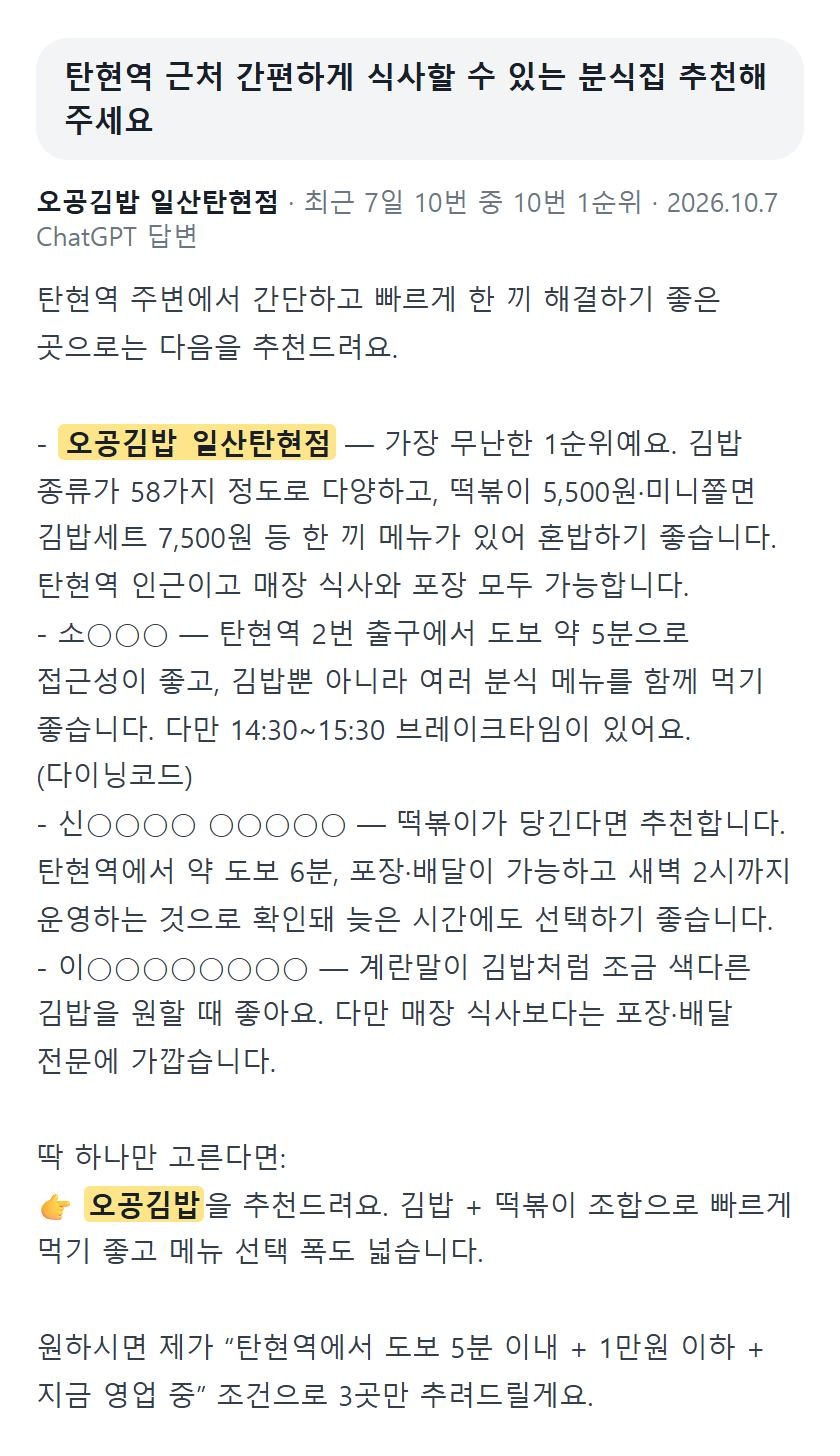
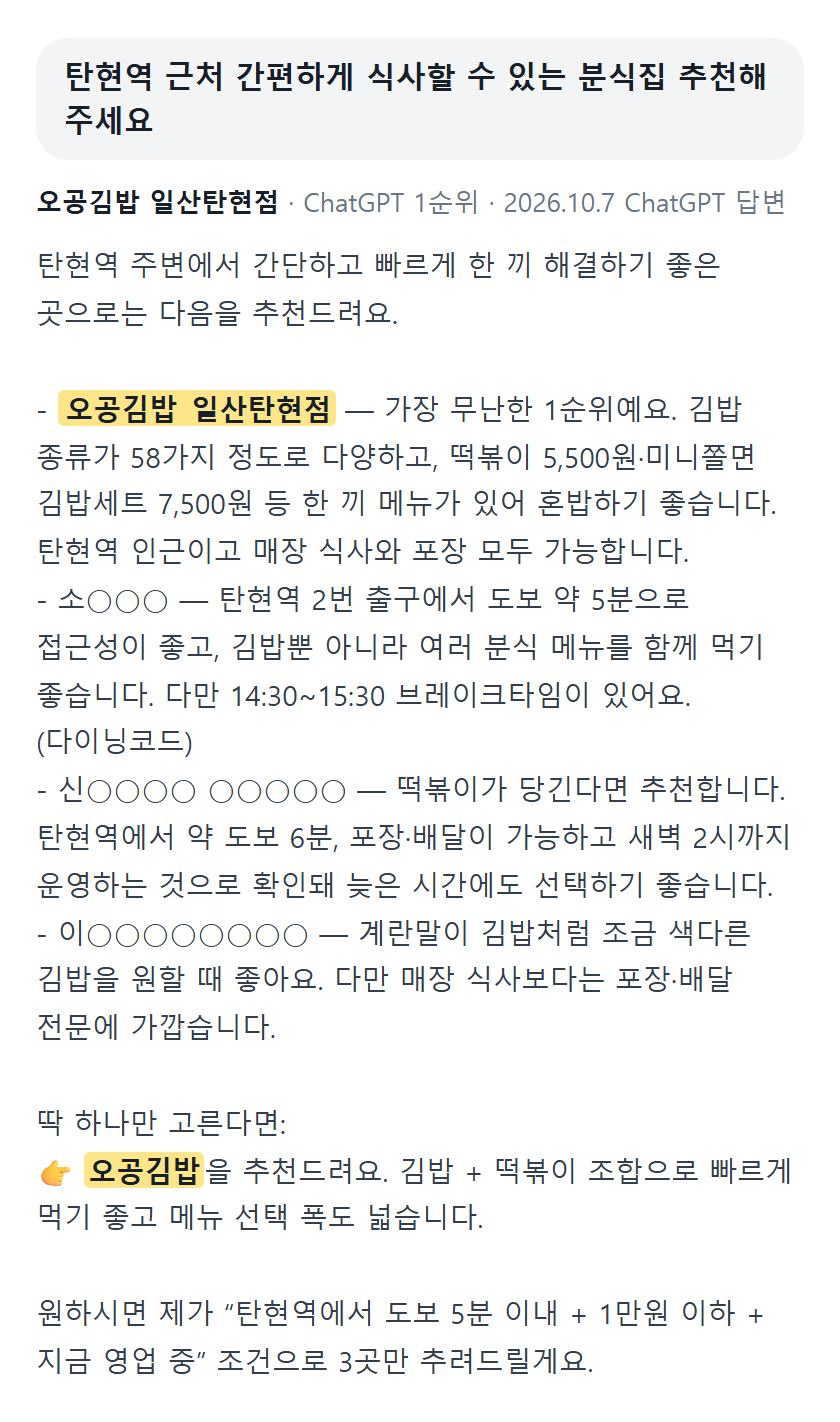
fix(랜딩): 2차 레드팀 반영 · 롤링 카드·원문에서 고정 횟수 제거(위 사례 수치와 어긋남 해소)·약한 사례 제외(16장) · 추천 횟수 설명 통일 · 첫 화면 배지 날짜 제거 · 대표 매장 6곳 · 다른 AI 반영 속도 안내

diff --git a/index.template.html b/index.template.html
@@ -163,11 +163,11 @@
     { "@type": "Question", "name": "토크비는 정확히 뭘 해 주나요?", "acceptedAnswer": { "@type": "Answer", "text": "요즘 손님들은 ‘근처 맛집 추천해줘’를 ChatGPT 같은 AI에도 물어봐요. 토크비는 손님이 물을 만한 질문을 매주 ChatGPT에 직접 물어 우리 가게가 추천되는지 세고, 메뉴·가격·주차 같은 가게 정보를 AI가 찾기 쉽게 정리해 추천이 늘도록 도와요." } },
     { "@type": "Question", "name": "GEO가 뭔가요?", "acceptedAnswer": { "@type": "Answer", "text": "GEO(생성형 엔진 최적화)는 ChatGPT 같은 AI의 답변에 우리 가게가 나오게 하는 일이에요. 네이버 상위 노출의 AI 버전이라고 보시면 돼요." } },
     { "@type": "Question", "name": "제가 직접 ChatGPT에 검색하면 나오는데요?", "acceptedAnswer": { "@type": "Answer", "text": "ChatGPT는 대화 이력을 기억해서 사장님 화면에서는 잘 나올 수 있어요. 토크비는 기록이 없는 새 대화에서 매장 이름을 빼고 손님처럼 물어 확인해요." } },
-    { "@type": "Question", "name": "네이버 AI 브리핑이나 제미나이도 보나요?", "acceptedAnswer": { "@type": "Answer", "text": "정리한 가게 정보는 Gemini, Claude, Perplexity 같은 다른 AI에도 함께 학습돼요. 측정과 리포트는 손님이 가장 많이 쓰는 ChatGPT를 기준으로 해요." } },
+    { "@type": "Question", "name": "네이버 AI 브리핑이나 제미나이도 보나요?", "acceptedAnswer": { "@type": "Answer", "text": "정리한 가게 정보는 Gemini, Claude, Perplexity 같은 다른 AI에도 함께 학습돼요. 다만 AI마다 반영 속도가 달라서 ChatGPT보다 늦게 나타날 수 있어요. 측정과 리포트는 손님이 가장 많이 쓰는 ChatGPT를 기준으로 해요." } },
     { "@type": "Question", "name": "얼마나 지나야 달라지나요?", "acceptedAnswer": { "@type": "Answer", "text": "빠른 가게는 1~2주 안에 변화가 보이기 시작하고, 추천이 자리 잡기까지는 보통 1~3개월이 걸려요. 상권과 업종에 따라 속도는 달라요." } },
     { "@type": "Question", "name": "네이버 플레이스 상위인데도 필요한가요?", "acceptedAnswer": { "@type": "Answer", "text": "플레이스 순위와 ChatGPT 추천은 따로 움직여요. 네이버 지도 1위인데 ChatGPT에는 한 번도 나오지 않은 매장도 있었어요." } },
     { "@type": "Question", "name": "상담은 어떻게 하나요?", "acceptedAnswer": { "@type": "Answer", "text": "카카오톡 채널 ‘토크비’로 네이버 플레이스 링크를 보내 주시면 돼요(https://pf.kakao.com/_JxlWTX/chat). 영업일 09:00~18:00에 전문가가 직접 상담해 드려요." } },
-    { "@type": "Question", "name": "추천 횟수는 어떻게 확인하나요?", "acceptedAnswer": { "@type": "Answer", "text": "로그인하지 않은 새 대화에서 매장 이름 없이 손님처럼 묻고, 같은 질문을 10번 반복해 우리 가게가 나온 횟수를 셉니다. ChatGPT 답변은 물을 때마다 달라서 한 번이 아니라 여러 번 묻습니다." } },
+    { "@type": "Question", "name": "추천 횟수는 어떻게 확인하나요?", "acceptedAnswer": { "@type": "Answer", "text": "로그인하지 않은 새 대화에서 매장 이름 없이 손님처럼 물어요. ChatGPT 답변은 물을 때마다 달라서 같은 질문을 매주 5번씩 묻고, 최근 7일 동안 물은 횟수 중 우리 가게가 나온 횟수를 세요." } },
     { "@type": "Question", "name": "블로그 체험단이나 네이버 광고랑 뭐가 다른가요?", "acceptedAnswer": { "@type": "Answer", "text": "체험단과 네이버 광고는 네이버에서 검색하는 손님에게 보여요. 토크비는 ChatGPT 같은 AI에 물어보는 손님에게 우리 가게가 답으로 나오게 해요. 둘은 따로 움직여서, 네이버 상위인 가게가 AI 답변에는 안 나오는 경우가 많아요." } },
     { "@type": "Question", "name": "해지와 환불은 어떻게 하나요?", "acceptedAnswer": { "@type": "Answer", "text": "약정 없이 언제든 해지할 수 있고, 결제한 기간이 끝날 때까지 그대로 이용하실 수 있어요. 결제 확인 후 영업일 3일 이내에는 사유와 상관없이 전액 환불해 드려요. 그 이후에는 서비스가 이미 시작되어 환불이 불가해요." } }
   ]
@@ -423,7 +423,7 @@ fbq('track', 'PageView');
 
 <div class="hero-fig">
 <figure class="gpt">
-<div class="gpt-hd"><span class="gpt-dot" aria-hidden="true"></span>ChatGPT 답변 인용<span class="badge b-ok" style="margin-left: auto">실제 답변 일부 · {{updatedDot}}</span></div>
+<div class="gpt-hd"><span class="gpt-dot" aria-hidden="true"></span>ChatGPT 답변 인용<span class="badge b-ok" style="margin-left: auto">실제 답변 일부</span></div>
 <div class="gpt-body">
 <p class="gpt-q">수원 닭볶음탕 추천해줘</p>
 <div class="gpt-a">
@@ -445,7 +445,7 @@ fbq('track', 'PageView');
 <article class="fc">
 <span class="fn">1</span>
 <span class="badge b-gray">2026년 7월 4일 · 시작 전</span>
-<button type="button" class="shot" data-src="/images/cases/insaeng-before.jpg?v=2" data-alt="ChatGPT 답변 원문 · 2026년 7월 4일 · 인생뼈다귀 본점이 추천되지 않음"><img src="/images/cases/insaeng-before.jpg?v=2" alt="ChatGPT 답변 원문 · 2026년 7월 4일 · 인생뼈다귀 본점이 추천되지 않음" width="840" height="2847" loading="lazy" decoding="async"><span>원문 크게 보기</span></button>
+<button type="button" class="shot" data-src="/images/cases/insaeng-before.jpg?v=3" data-alt="ChatGPT 답변 원문 · 2026년 7월 4일 · 인생뼈다귀 본점이 추천되지 않음"><img src="/images/cases/insaeng-before.jpg?v=3" alt="ChatGPT 답변 원문 · 2026년 7월 4일 · 인생뼈다귀 본점이 추천되지 않음" width="840" height="2847" loading="lazy" decoding="async"><span>원문 크게 보기</span></button>
 <h3>ChatGPT가 우리 가게를<br>몰랐어요</h3>
 </article>
 <article class="fc">
@@ -457,7 +457,7 @@ fbq('track', 'PageView');
 <article class="fc fc-on">
 <span class="fn">3</span>
 <span class="badge b-acc">2026년 10월 6일 · 지금</span>
-<button type="button" class="shot" data-src="/images/cases/insaeng-now.jpg?v=2" data-alt="ChatGPT 답변 원문 · 2026년 10월 6일 · 인생뼈다귀 본점 1순위"><img src="/images/cases/insaeng-now.jpg?v=2" alt="ChatGPT 답변 원문 · 2026년 10월 6일 · 인생뼈다귀 본점 1순위" width="840" height="2228" loading="lazy" decoding="async"><span>원문 크게 보기</span></button>
+<button type="button" class="shot" data-src="/images/cases/insaeng-now.jpg?v=3" data-alt="ChatGPT 답변 원문 · 2026년 10월 6일 · 인생뼈다귀 본점 1순위"><img src="/images/cases/insaeng-now.jpg?v=3" alt="ChatGPT 답변 원문 · 2026년 10월 6일 · 인생뼈다귀 본점 1순위" width="840" height="2228" loading="lazy" decoding="async"><span>원문 크게 보기</span></button>
 <h3>같은 질문 {{featured.ba.label}}<br>1순위로 추천돼요</h3>
 </article>
 </div>
@@ -472,7 +472,7 @@ fbq('track', 'PageView');
 <blockquote style="margin: 0; font-size: clamp(22px, 2.6vw, 28px); font-weight: 800; line-height: 1.5">“토크비 이용 후에 ChatGPT에서 추천받고 연락했다며 <span style="color: #FF9C80">12명 예약</span>하시는 분도 생기고, 전화 문의도 많이 늘었어요.”</blockquote>
 <figcaption style="margin-top: 14px; font-size: 14px; color: #B0B8C1">탐라담 영종도점 · 백지혜 사장님 · 2026년 6월부터 이용 중</figcaption>
 </figure>
-<p style="margin-top: 26px; padding-top: 20px; border-top: 1px solid rgba(255,255,255,.12); font-size: 16px; color: #B0B8C1">이용 매장 {{storeCount}}곳 평균 · 손님 질문 10번 중 ChatGPT 추천 <b class="tnum" style="color: #fff">{{avg.base10}}번 → <span style="color: #FF9C80">{{avg.now10}}번</span></b></p>
+<p style="margin-top: 26px; padding-top: 20px; border-top: 1px solid rgba(255,255,255,.12); font-size: 16px; color: #B0B8C1">대표 매장 {{storeCount}}곳 평균 · 손님 질문 10번 중 ChatGPT 추천 <b class="tnum" style="color: #fff">{{avg.base10}}번 → <span style="color: #FF9C80">{{avg.now10}}번</span></b></p>
 </div>
 </section>
 
@@ -483,24 +483,22 @@ fbq('track', 'PageView');
 </div>
 <div class="cs-roll" id="csRoll">
 <div class="cs-track" id="csTrack">
-<button type="button" class="cs" data-src="/images/cases/01.jpg?v=2" data-alt="ChatGPT 답변 원문: 수원 닭볶음탕 추천해줘 · 도시농원 수원인계본점 10번 중 10번 1순위"><span class="cs-q">“수원 닭볶음탕 추천해줘”</span><span class="cs-r"><span class="cs-b">1순위</span><b>도시농원 수원인계본점</b></span><span class="cs-n">10번 중 10번 1순위</span><span class="cs-o">원문 보기 ›</span></button>
-<button type="button" class="cs" data-src="/images/cases/02.jpg?v=2" data-alt="ChatGPT 답변 원문: 서오릉 냉면 추천해줘 · 평진양 5번 중 5번 1순위"><span class="cs-q">“서오릉 냉면 추천해줘”</span><span class="cs-r"><span class="cs-b">1순위</span><b>평진양</b></span><span class="cs-n">5번 중 5번 1순위</span><span class="cs-o">원문 보기 ›</span></button>
-<button type="button" class="cs" data-src="/images/cases/03.jpg?v=2" data-alt="ChatGPT 답변 원문: 종각역 친구와 가볍게 먹기 좋은 분식집 추천해줘 · 선비꼬마김밥 종각직영점 5번 중 5번 1순위"><span class="cs-q">“종각역 친구와 가볍게 먹기 좋은 분식집 추천해줘”</span><span class="cs-r"><span class="cs-b">1순위</span><b>선비꼬마김밥 종각직영점</b></span><span class="cs-n">5번 중 5번 1순위</span><span class="cs-o">원문 보기 ›</span></button>
-<button type="button" class="cs" data-src="/images/cases/04.jpg?v=2" data-alt="ChatGPT 답변 원문: 수원 시청역 근처 닭볶음탕 추천해줘 · 도시농원 수원인계본점 10번 중 10번 1순위"><span class="cs-q">“수원 시청역 근처 닭볶음탕 추천해줘”</span><span class="cs-r"><span class="cs-b">1순위</span><b>도시농원 수원인계본점</b></span><span class="cs-n">10번 중 10번 1순위</span><span class="cs-o">원문 보기 ›</span></button>
-<button type="button" class="cs" data-src="/images/cases/05.jpg?v=2" data-alt="ChatGPT 답변 원문: 명동성당 근처 예약 가능한 한식당 어디인가요 · 광장동가온 명동성당점 10번 중 10번 1순위"><span class="cs-q">“명동성당 근처 예약 가능한 한식당 어디인가요”</span><span class="cs-r"><span class="cs-b">1순위</span><b>광장동가온 명동성당점</b></span><span class="cs-n">10번 중 10번 1순위</span><span class="cs-o">원문 보기 ›</span></button>
-<button type="button" class="cs" data-src="/images/cases/06.jpg?v=2" data-alt="ChatGPT 답변 원문: 탄현역 근처 간편하게 식사할 수 있는 분식집 추천해주세요 · 오공김밥 일산탄현점 10번 중 10번 1순위"><span class="cs-q">“탄현역 근처 간편하게 식사할 수 있는 분식집 추천해주세요”</span><span class="cs-r"><span class="cs-b">1순위</span><b>오공김밥 일산탄현점</b></span><span class="cs-n">10번 중 10번 1순위</span><span class="cs-o">원문 보기 ›</span></button>
-<button type="button" class="cs" data-src="/images/cases/07.jpg?v=2" data-alt="ChatGPT 답변 원문: 광장동에서 비즈니스 접대하기 좋은 한식집 알려주세요 · 광장동가온 10번 중 9번 1순위"><span class="cs-q">“광장동에서 비즈니스 접대하기 좋은 한식집 알려주세요”</span><span class="cs-r"><span class="cs-b">1순위</span><b>광장동가온</b></span><span class="cs-n">10번 중 9번 1순위</span><span class="cs-o">원문 보기 ›</span></button>
-<button type="button" class="cs" data-src="/images/cases/08.jpg?v=2" data-alt="ChatGPT 답변 원문: 광장동 뷰 좋은 한식집 추천해주세요 · 광장동가온 10번 중 9번 1순위"><span class="cs-q">“광장동 뷰 좋은 한식집 추천해주세요”</span><span class="cs-r"><span class="cs-b">1순위</span><b>광장동가온</b></span><span class="cs-n">10번 중 9번 1순위</span><span class="cs-o">원문 보기 ›</span></button>
-<button type="button" class="cs" data-src="/images/cases/09.jpg?v=2" data-alt="ChatGPT 답변 원문: 수원 주말에 드라이브 가기 좋은 카페 추천해주세요 · 도나스데이 본점 10번 중 8번 1순위"><span class="cs-q">“수원 주말에 드라이브 가기 좋은 카페 추천해주세요”</span><span class="cs-r"><span class="cs-b">1순위</span><b>도나스데이 본점</b></span><span class="cs-n">10번 중 8번 1순위</span><span class="cs-o">원문 보기 ›</span></button>
-<button type="button" class="cs" data-src="/images/cases/10.jpg?v=2" data-alt="ChatGPT 답변 원문: 창원가로수길 근처 맛집 추천해줘 · 오프트 포르니 5번 중 4번 1순위"><span class="cs-q">“창원가로수길 근처 맛집 추천해줘”</span><span class="cs-r"><span class="cs-b">1순위</span><b>오프트 포르니</b></span><span class="cs-n">5번 중 4번 1순위</span><span class="cs-o">원문 보기 ›</span></button>
-<button type="button" class="cs" data-src="/images/cases/11.jpg?v=2" data-alt="ChatGPT 답변 원문: 종각역 혼밥하기 좋은 분식집 추천해줘 · 선비꼬마김밥 종각직영점 5번 중 4번 1순위"><span class="cs-q">“종각역 혼밥하기 좋은 분식집 추천해줘”</span><span class="cs-r"><span class="cs-b">1순위</span><b>선비꼬마김밥 종각직영점</b></span><span class="cs-n">5번 중 4번 1순위</span><span class="cs-o">원문 보기 ›</span></button>
-<button type="button" class="cs" data-src="/images/cases/12.jpg?v=2" data-alt="ChatGPT 답변 원문: 용인 모현에서 가족과 식사하기 좋은 감자탕 맛집 추천해줘 · 인생뼈다귀 본점 10번 중 8번 1순위"><span class="cs-q">“용인 모현에서 가족과 식사하기 좋은 감자탕 맛집 추천해줘”</span><span class="cs-r"><span class="cs-b">1순위</span><b>인생뼈다귀 본점</b></span><span class="cs-n">10번 중 8번 1순위</span><span class="cs-o">원문 보기 ›</span></button>
-<button type="button" class="cs" data-src="/images/cases/13.jpg?v=2" data-alt="ChatGPT 답변 원문: 용인 모현에서 놀이방 있는 감자탕 맛집 추천해줘 · 인생뼈다귀 본점 5번 중 4번 1순위"><span class="cs-q">“용인 모현에서 놀이방 있는 감자탕 맛집 추천해줘”</span><span class="cs-r"><span class="cs-b">1순위</span><b>인생뼈다귀 본점</b></span><span class="cs-n">5번 중 4번 1순위</span><span class="cs-o">원문 보기 ›</span></button>
-<button type="button" class="cs" data-src="/images/cases/14.jpg?v=2" data-alt="ChatGPT 답변 원문: 명동성당 근처 단체석 있는 한식당 알려주세요 · 광장동가온 명동성당점 10번 중 8번 1순위"><span class="cs-q">“명동성당 근처 단체석 있는 한식당 알려주세요”</span><span class="cs-r"><span class="cs-b">1순위</span><b>광장동가온 명동성당점</b></span><span class="cs-n">10번 중 8번 1순위</span><span class="cs-o">원문 보기 ›</span></button>
-<button type="button" class="cs" data-src="/images/cases/15.jpg?v=2" data-alt="ChatGPT 답변 원문: 처인구 역북동 도넛 맛집 추천해줘 · 도나스데이 용인역북점 5번 중 4번 1순위"><span class="cs-q">“처인구 역북동 도넛 맛집 추천해줘”</span><span class="cs-r"><span class="cs-b">1순위</span><b>도나스데이 용인역북점</b></span><span class="cs-n">5번 중 4번 1순위</span><span class="cs-o">원문 보기 ›</span></button>
-<button type="button" class="cs" data-src="/images/cases/16.jpg?v=2" data-alt="ChatGPT 답변 원문: 일산 탄현동 배달 주문하기 좋은 분식 추천해주세요 · 오공김밥 일산탄현점 10번 중 8번 1순위"><span class="cs-q">“일산 탄현동 배달 주문하기 좋은 분식 추천해주세요”</span><span class="cs-r"><span class="cs-b">1순위</span><b>오공김밥 일산탄현점</b></span><span class="cs-n">10번 중 8번 1순위</span><span class="cs-o">원문 보기 ›</span></button>
-<button type="button" class="cs" data-src="/images/cases/17.jpg?v=2" data-alt="ChatGPT 답변 원문: 수원 도넛맛집 추천해줘 · 도나스데이 본점 10번 중 7번 1순위"><span class="cs-q">“수원 도넛맛집 추천해줘”</span><span class="cs-r"><span class="cs-b">1순위</span><b>도나스데이 본점</b></span><span class="cs-n">10번 중 7번 1순위</span><span class="cs-o">원문 보기 ›</span></button>
-<button type="button" class="cs" data-src="/images/cases/18.jpg?v=2" data-alt="ChatGPT 답변 원문: 고양시 한식 냉면 추천해줘 · 평진양 5번 중 3번 1순위"><span class="cs-q">“고양시 한식 냉면 추천해줘”</span><span class="cs-r"><span class="cs-b">1순위</span><b>평진양</b></span><span class="cs-n">5번 중 3번 1순위</span><span class="cs-o">원문 보기 ›</span></button>
+<button type="button" class="cs" data-src="/images/cases/01.jpg?v=3" data-alt="ChatGPT 답변 원문: 수원 닭볶음탕 추천해줘 · 도시농원 수원인계본점 1순위"><span class="cs-q">“수원 닭볶음탕 추천해줘”</span><span class="cs-r"><span class="cs-b">1순위</span><b>도시농원 수원인계본점</b></span><span class="cs-o">원문 보기 ›</span></button>
+<button type="button" class="cs" data-src="/images/cases/02.jpg?v=3" data-alt="ChatGPT 답변 원문: 서오릉 냉면 추천해줘 · 평진양 1순위"><span class="cs-q">“서오릉 냉면 추천해줘”</span><span class="cs-r"><span class="cs-b">1순위</span><b>평진양</b></span><span class="cs-o">원문 보기 ›</span></button>
+<button type="button" class="cs" data-src="/images/cases/03.jpg?v=3" data-alt="ChatGPT 답변 원문: 종각역 친구와 가볍게 먹기 좋은 분식집 추천해줘 · 선비꼬마김밥 종각직영점 1순위"><span class="cs-q">“종각역 친구와 가볍게 먹기 좋은 분식집 추천해줘”</span><span class="cs-r"><span class="cs-b">1순위</span><b>선비꼬마김밥 종각직영점</b></span><span class="cs-o">원문 보기 ›</span></button>
+<button type="button" class="cs" data-src="/images/cases/04.jpg?v=3" data-alt="ChatGPT 답변 원문: 수원 시청역 근처 닭볶음탕 추천해줘 · 도시농원 수원인계본점 1순위"><span class="cs-q">“수원 시청역 근처 닭볶음탕 추천해줘”</span><span class="cs-r"><span class="cs-b">1순위</span><b>도시농원 수원인계본점</b></span><span class="cs-o">원문 보기 ›</span></button>
+<button type="button" class="cs" data-src="/images/cases/05.jpg?v=3" data-alt="ChatGPT 답변 원문: 명동성당 근처 예약 가능한 한식당 어디인가요 · 광장동가온 명동성당점 1순위"><span class="cs-q">“명동성당 근처 예약 가능한 한식당 어디인가요”</span><span class="cs-r"><span class="cs-b">1순위</span><b>광장동가온 명동성당점</b></span><span class="cs-o">원문 보기 ›</span></button>
+<button type="button" class="cs" data-src="/images/cases/06.jpg?v=3" data-alt="ChatGPT 답변 원문: 탄현역 근처 간편하게 식사할 수 있는 분식집 추천해주세요 · 오공김밥 일산탄현점 1순위"><span class="cs-q">“탄현역 근처 간편하게 식사할 수 있는 분식집 추천해주세요”</span><span class="cs-r"><span class="cs-b">1순위</span><b>오공김밥 일산탄현점</b></span><span class="cs-o">원문 보기 ›</span></button>
+<button type="button" class="cs" data-src="/images/cases/07.jpg?v=3" data-alt="ChatGPT 답변 원문: 광장동에서 비즈니스 접대하기 좋은 한식집 알려주세요 · 광장동가온 1순위"><span class="cs-q">“광장동에서 비즈니스 접대하기 좋은 한식집 알려주세요”</span><span class="cs-r"><span class="cs-b">1순위</span><b>광장동가온</b></span><span class="cs-o">원문 보기 ›</span></button>
+<button type="button" class="cs" data-src="/images/cases/08.jpg?v=3" data-alt="ChatGPT 답변 원문: 광장동 뷰 좋은 한식집 추천해주세요 · 광장동가온 1순위"><span class="cs-q">“광장동 뷰 좋은 한식집 추천해주세요”</span><span class="cs-r"><span class="cs-b">1순위</span><b>광장동가온</b></span><span class="cs-o">원문 보기 ›</span></button>
+<button type="button" class="cs" data-src="/images/cases/09.jpg?v=3" data-alt="ChatGPT 답변 원문: 수원 주말에 드라이브 가기 좋은 카페 추천해주세요 · 도나스데이 본점 1순위"><span class="cs-q">“수원 주말에 드라이브 가기 좋은 카페 추천해주세요”</span><span class="cs-r"><span class="cs-b">1순위</span><b>도나스데이 본점</b></span><span class="cs-o">원문 보기 ›</span></button>
+<button type="button" class="cs" data-src="/images/cases/10.jpg?v=3" data-alt="ChatGPT 답변 원문: 창원가로수길 근처 맛집 추천해줘 · 오프트 포르니 1순위"><span class="cs-q">“창원가로수길 근처 맛집 추천해줘”</span><span class="cs-r"><span class="cs-b">1순위</span><b>오프트 포르니</b></span><span class="cs-o">원문 보기 ›</span></button>
+<button type="button" class="cs" data-src="/images/cases/11.jpg?v=3" data-alt="ChatGPT 답변 원문: 종각역 혼밥하기 좋은 분식집 추천해줘 · 선비꼬마김밥 종각직영점 1순위"><span class="cs-q">“종각역 혼밥하기 좋은 분식집 추천해줘”</span><span class="cs-r"><span class="cs-b">1순위</span><b>선비꼬마김밥 종각직영점</b></span><span class="cs-o">원문 보기 ›</span></button>
+<button type="button" class="cs" data-src="/images/cases/12.jpg?v=3" data-alt="ChatGPT 답변 원문: 용인 모현에서 가족과 식사하기 좋은 감자탕 맛집 추천해줘 · 인생뼈다귀 본점 1순위"><span class="cs-q">“용인 모현에서 가족과 식사하기 좋은 감자탕 맛집 추천해줘”</span><span class="cs-r"><span class="cs-b">1순위</span><b>인생뼈다귀 본점</b></span><span class="cs-o">원문 보기 ›</span></button>
+<button type="button" class="cs" data-src="/images/cases/13.jpg?v=3" data-alt="ChatGPT 답변 원문: 용인 모현에서 놀이방 있는 감자탕 맛집 추천해줘 · 인생뼈다귀 본점 1순위"><span class="cs-q">“용인 모현에서 놀이방 있는 감자탕 맛집 추천해줘”</span><span class="cs-r"><span class="cs-b">1순위</span><b>인생뼈다귀 본점</b></span><span class="cs-o">원문 보기 ›</span></button>
+<button type="button" class="cs" data-src="/images/cases/14.jpg?v=3" data-alt="ChatGPT 답변 원문: 명동성당 근처 단체석 있는 한식당 알려주세요 · 광장동가온 명동성당점 1순위"><span class="cs-q">“명동성당 근처 단체석 있는 한식당 알려주세요”</span><span class="cs-r"><span class="cs-b">1순위</span><b>광장동가온 명동성당점</b></span><span class="cs-o">원문 보기 ›</span></button>
+<button type="button" class="cs" data-src="/images/cases/15.jpg?v=3" data-alt="ChatGPT 답변 원문: 처인구 역북동 도넛 맛집 추천해줘 · 도나스데이 용인역북점 1순위"><span class="cs-q">“처인구 역북동 도넛 맛집 추천해줘”</span><span class="cs-r"><span class="cs-b">1순위</span><b>도나스데이 용인역북점</b></span><span class="cs-o">원문 보기 ›</span></button>
+<button type="button" class="cs" data-src="/images/cases/16.jpg?v=3" data-alt="ChatGPT 답변 원문: 일산 탄현동 배달 주문하기 좋은 분식 추천해주세요 · 오공김밥 일산탄현점 1순위"><span class="cs-q">“일산 탄현동 배달 주문하기 좋은 분식 추천해주세요”</span><span class="cs-r"><span class="cs-b">1순위</span><b>오공김밥 일산탄현점</b></span><span class="cs-o">원문 보기 ›</span></button>
 </div>
 </div>
 <div class="cs-nav"><button type="button" class="cs-arr" id="csPrev" aria-label="이전 사례">‹</button><div class="cs-dots" id="csDots" role="tablist" aria-label="사례 고르기"></div><button type="button" class="cs-arr" id="csNext" aria-label="다음 사례">›</button></div>
@@ -581,11 +579,11 @@ fbq('track', 'PageView');
 <details class="faq" open><summary>토크비는 정확히 뭘 해 주나요?</summary><p>요즘 손님들은 ‘근처 맛집 추천해줘’를 ChatGPT 같은 AI에도 물어봐요. 토크비는 손님이 물을 만한 질문을 매주 ChatGPT에 직접 물어 우리 가게가 추천되는지 세고, 메뉴·가격·주차 같은 가게 정보를 AI가 찾기 쉽게 정리해 추천이 늘도록 도와요.</p></details>
 <details class="faq"><summary>GEO가 뭔가요?</summary><p>GEO(생성형 엔진 최적화)는 ChatGPT 같은 AI의 답변에 우리 가게가 나오게 하는 일이에요. 네이버 상위 노출의 AI 버전이라고 보시면 돼요.</p></details>
 <details class="faq"><summary>제가 직접 ChatGPT에 검색하면 나오는데요?</summary><p>ChatGPT는 대화 이력을 기억해서 사장님 화면에서는 잘 나올 수 있어요. 토크비는 기록이 없는 새 대화에서 매장 이름을 빼고 손님처럼 물어 확인해요.</p></details>
-<details class="faq"><summary>네이버 AI 브리핑이나 제미나이도 보나요?</summary><p>정리한 가게 정보는 Gemini, Claude, Perplexity 같은 다른 AI에도 함께 학습돼요. 측정과 리포트는 손님이 가장 많이 쓰는 ChatGPT를 기준으로 해요.</p></details>
+<details class="faq"><summary>네이버 AI 브리핑이나 제미나이도 보나요?</summary><p>정리한 가게 정보는 Gemini, Claude, Perplexity 같은 다른 AI에도 함께 학습돼요. 다만 AI마다 반영 속도가 달라서 ChatGPT보다 늦게 나타날 수 있어요. 측정과 리포트는 손님이 가장 많이 쓰는 ChatGPT를 기준으로 해요.</p></details>
 <details class="faq"><summary>얼마나 지나야 달라지나요?</summary><p>빠른 가게는 1~2주 안에 변화가 보이기 시작하고, 추천이 자리 잡기까지는 보통 1~3개월이 걸려요. 상권과 업종에 따라 속도는 달라요.</p></details>
 <details class="faq"><summary>네이버 플레이스 상위인데도 필요한가요?</summary><p>플레이스 순위와 ChatGPT 추천은 따로 움직여요. 네이버 지도 1위인데 ChatGPT에는 한 번도 나오지 않은 매장도 있었어요.</p></details>
 <details class="faq"><summary>상담은 어떻게 하나요?</summary><p>카카오톡 채널 ‘토크비’로 네이버 플레이스 링크를 보내 주시면 돼요. 영업일 09:00~18:00에 전문가가 직접 상담해 드려요. <a href="https://pf.kakao.com/_JxlWTX/chat" target="_blank" rel="noopener" data-pos="faq">카톡으로 상담하기</a></p></details>
-<details class="faq"><summary>추천 횟수는 어떻게 확인하나요?</summary><p>로그인하지 않은 새 대화에서 매장 이름 없이 손님처럼 묻고, 같은 질문을 10번 반복해 우리 가게가 나온 횟수를 셉니다. ChatGPT 답변은 물을 때마다 달라서 한 번이 아니라 여러 번 묻습니다.</p></details>
+<details class="faq"><summary>추천 횟수는 어떻게 확인하나요?</summary><p>로그인하지 않은 새 대화에서 매장 이름 없이 손님처럼 물어요. ChatGPT 답변은 물을 때마다 달라서 같은 질문을 매주 5번씩 묻고, 최근 7일 동안 물은 횟수 중 우리 가게가 나온 횟수를 세요.</p></details>
 <details class="faq"><summary>블로그 체험단이나 네이버 광고랑 뭐가 다른가요?</summary><p>체험단과 네이버 광고는 네이버에서 검색하는 손님에게 보여요. 토크비는 ChatGPT 같은 AI에 물어보는 손님에게 우리 가게가 답으로 나오게 해요. 둘은 따로 움직여서, 네이버 상위인 가게가 AI 답변에는 안 나오는 경우가 많아요.</p></details>
 <details class="faq"><summary>해지와 환불은 어떻게 하나요?</summary><p>약정 없이 언제든 해지할 수 있고, 결제한 기간이 끝날 때까지 그대로 이용하실 수 있어요. 결제 확인 후 영업일 3일 이내에는 사유와 상관없이 전액 환불해 드려요. 그 이후에는 서비스가 이미 시작되어 환불이 불가해요.</p></details>
 </div>

diff --git a/index.html b/index.html
@@ -163,11 +163,11 @@
     { "@type": "Question", "name": "토크비는 정확히 뭘 해 주나요?", "acceptedAnswer": { "@type": "Answer", "text": "요즘 손님들은 ‘근처 맛집 추천해줘’를 ChatGPT 같은 AI에도 물어봐요. 토크비는 손님이 물을 만한 질문을 매주 ChatGPT에 직접 물어 우리 가게가 추천되는지 세고, 메뉴·가격·주차 같은 가게 정보를 AI가 찾기 쉽게 정리해 추천이 늘도록 도와요." } },
     { "@type": "Question", "name": "GEO가 뭔가요?", "acceptedAnswer": { "@type": "Answer", "text": "GEO(생성형 엔진 최적화)는 ChatGPT 같은 AI의 답변에 우리 가게가 나오게 하는 일이에요. 네이버 상위 노출의 AI 버전이라고 보시면 돼요." } },
     { "@type": "Question", "name": "제가 직접 ChatGPT에 검색하면 나오는데요?", "acceptedAnswer": { "@type": "Answer", "text": "ChatGPT는 대화 이력을 기억해서 사장님 화면에서는 잘 나올 수 있어요. 토크비는 기록이 없는 새 대화에서 매장 이름을 빼고 손님처럼 물어 확인해요." } },
-    { "@type": "Question", "name": "네이버 AI 브리핑이나 제미나이도 보나요?", "acceptedAnswer": { "@type": "Answer", "text": "정리한 가게 정보는 Gemini, Claude, Perplexity 같은 다른 AI에도 함께 학습돼요. 측정과 리포트는 손님이 가장 많이 쓰는 ChatGPT를 기준으로 해요." } },
+    { "@type": "Question", "name": "네이버 AI 브리핑이나 제미나이도 보나요?", "acceptedAnswer": { "@type": "Answer", "text": "정리한 가게 정보는 Gemini, Claude, Perplexity 같은 다른 AI에도 함께 학습돼요. 다만 AI마다 반영 속도가 달라서 ChatGPT보다 늦게 나타날 수 있어요. 측정과 리포트는 손님이 가장 많이 쓰는 ChatGPT를 기준으로 해요." } },
     { "@type": "Question", "name": "얼마나 지나야 달라지나요?", "acceptedAnswer": { "@type": "Answer", "text": "빠른 가게는 1~2주 안에 변화가 보이기 시작하고, 추천이 자리 잡기까지는 보통 1~3개월이 걸려요. 상권과 업종에 따라 속도는 달라요." } },
     { "@type": "Question", "name": "네이버 플레이스 상위인데도 필요한가요?", "acceptedAnswer": { "@type": "Answer", "text": "플레이스 순위와 ChatGPT 추천은 따로 움직여요. 네이버 지도 1위인데 ChatGPT에는 한 번도 나오지 않은 매장도 있었어요." } },
     { "@type": "Question", "name": "상담은 어떻게 하나요?", "acceptedAnswer": { "@type": "Answer", "text": "카카오톡 채널 ‘토크비’로 네이버 플레이스 링크를 보내 주시면 돼요(https://pf.kakao.com/_JxlWTX/chat). 영업일 09:00~18:00에 전문가가 직접 상담해 드려요." } },
-    { "@type": "Question", "name": "추천 횟수는 어떻게 확인하나요?", "acceptedAnswer": { "@type": "Answer", "text": "로그인하지 않은 새 대화에서 매장 이름 없이 손님처럼 묻고, 같은 질문을 10번 반복해 우리 가게가 나온 횟수를 셉니다. ChatGPT 답변은 물을 때마다 달라서 한 번이 아니라 여러 번 묻습니다." } },
+    { "@type": "Question", "name": "추천 횟수는 어떻게 확인하나요?", "acceptedAnswer": { "@type": "Answer", "text": "로그인하지 않은 새 대화에서 매장 이름 없이 손님처럼 물어요. ChatGPT 답변은 물을 때마다 달라서 같은 질문을 매주 5번씩 묻고, 최근 7일 동안 물은 횟수 중 우리 가게가 나온 횟수를 세요." } },
     { "@type": "Question", "name": "블로그 체험단이나 네이버 광고랑 뭐가 다른가요?", "acceptedAnswer": { "@type": "Answer", "text": "체험단과 네이버 광고는 네이버에서 검색하는 손님에게 보여요. 토크비는 ChatGPT 같은 AI에 물어보는 손님에게 우리 가게가 답으로 나오게 해요. 둘은 따로 움직여서, 네이버 상위인 가게가 AI 답변에는 안 나오는 경우가 많아요." } },
     { "@type": "Question", "name": "해지와 환불은 어떻게 하나요?", "acceptedAnswer": { "@type": "Answer", "text": "약정 없이 언제든 해지할 수 있고, 결제한 기간이 끝날 때까지 그대로 이용하실 수 있어요. 결제 확인 후 영업일 3일 이내에는 사유와 상관없이 전액 환불해 드려요. 그 이후에는 서비스가 이미 시작되어 환불이 불가해요." } }
   ]
@@ -423,7 +423,7 @@ fbq('track', 'PageView');
 
 <div class="hero-fig">
 <figure class="gpt">
-<div class="gpt-hd"><span class="gpt-dot" aria-hidden="true"></span>ChatGPT 답변 인용<span class="badge b-ok" style="margin-left: auto">실제 답변 일부 · 2026.10.8</span></div>
+<div class="gpt-hd"><span class="gpt-dot" aria-hidden="true"></span>ChatGPT 답변 인용<span class="badge b-ok" style="margin-left: auto">실제 답변 일부</span></div>
 <div class="gpt-body">
 <p class="gpt-q">수원 닭볶음탕 추천해줘</p>
 <div class="gpt-a">
@@ -445,7 +445,7 @@ fbq('track', 'PageView');
 <article class="fc">
 <span class="fn">1</span>
 <span class="badge b-gray">2026년 7월 4일 · 시작 전</span>
-<button type="button" class="shot" data-src="/images/cases/insaeng-before.jpg?v=2" data-alt="ChatGPT 답변 원문 · 2026년 7월 4일 · 인생뼈다귀 본점이 추천되지 않음"><img src="/images/cases/insaeng-before.jpg?v=2" alt="ChatGPT 답변 원문 · 2026년 7월 4일 · 인생뼈다귀 본점이 추천되지 않음" width="840" height="2847" loading="lazy" decoding="async"><span>원문 크게 보기</span></button>
+<button type="button" class="shot" data-src="/images/cases/insaeng-before.jpg?v=3" data-alt="ChatGPT 답변 원문 · 2026년 7월 4일 · 인생뼈다귀 본점이 추천되지 않음"><img src="/images/cases/insaeng-before.jpg?v=3" alt="ChatGPT 답변 원문 · 2026년 7월 4일 · 인생뼈다귀 본점이 추천되지 않음" width="840" height="2847" loading="lazy" decoding="async"><span>원문 크게 보기</span></button>
 <h3>ChatGPT가 우리 가게를<br>몰랐어요</h3>
 </article>
 <article class="fc">
@@ -457,7 +457,7 @@ fbq('track', 'PageView');
 <article class="fc fc-on">
 <span class="fn">3</span>
 <span class="badge b-acc">2026년 10월 6일 · 지금</span>
-<button type="button" class="shot" data-src="/images/cases/insaeng-now.jpg?v=2" data-alt="ChatGPT 답변 원문 · 2026년 10월 6일 · 인생뼈다귀 본점 1순위"><img src="/images/cases/insaeng-now.jpg?v=2" alt="ChatGPT 답변 원문 · 2026년 10월 6일 · 인생뼈다귀 본점 1순위" width="840" height="2228" loading="lazy" decoding="async"><span>원문 크게 보기</span></button>
+<button type="button" class="shot" data-src="/images/cases/insaeng-now.jpg?v=3" data-alt="ChatGPT 답변 원문 · 2026년 10월 6일 · 인생뼈다귀 본점 1순위"><img src="/images/cases/insaeng-now.jpg?v=3" alt="ChatGPT 답변 원문 · 2026년 10월 6일 · 인생뼈다귀 본점 1순위" width="840" height="2228" loading="lazy" decoding="async"><span>원문 크게 보기</span></button>
 <h3>같은 질문 10번 중 9번<br>1순위로 추천돼요</h3>
 </article>
 </div>
@@ -472,7 +472,7 @@ fbq('track', 'PageView');
 <blockquote style="margin: 0; font-size: clamp(22px, 2.6vw, 28px); font-weight: 800; line-height: 1.5">“토크비 이용 후에 ChatGPT에서 추천받고 연락했다며 <span style="color: #FF9C80">12명 예약</span>하시는 분도 생기고, 전화 문의도 많이 늘었어요.”</blockquote>
 <figcaption style="margin-top: 14px; font-size: 14px; color: #B0B8C1">탐라담 영종도점 · 백지혜 사장님 · 2026년 6월부터 이용 중</figcaption>
 </figure>
-<p style="margin-top: 26px; padding-top: 20px; border-top: 1px solid rgba(255,255,255,.12); font-size: 16px; color: #B0B8C1">이용 매장 6곳 평균 · 손님 질문 10번 중 ChatGPT 추천 <b class="tnum" style="color: #fff">1번 → <span style="color: #FF9C80">7번</span></b></p>
+<p style="margin-top: 26px; padding-top: 20px; border-top: 1px solid rgba(255,255,255,.12); font-size: 16px; color: #B0B8C1">대표 매장 6곳 평균 · 손님 질문 10번 중 ChatGPT 추천 <b class="tnum" style="color: #fff">1번 → <span style="color: #FF9C80">7번</span></b></p>
 </div>
 </section>
 
@@ -483,24 +483,22 @@ fbq('track', 'PageView');
 </div>
 <div class="cs-roll" id="csRoll">
 <div class="cs-track" id="csTrack">
-<button type="button" class="cs" data-src="/images/cases/01.jpg?v=2" data-alt="ChatGPT 답변 원문: 수원 닭볶음탕 추천해줘 · 도시농원 수원인계본점 10번 중 10번 1순위"><span class="cs-q">“수원 닭볶음탕 추천해줘”</span><span class="cs-r"><span class="cs-b">1순위</span><b>도시농원 수원인계본점</b></span><span class="cs-n">10번 중 10번 1순위</span><span class="cs-o">원문 보기 ›</span></button>
-<button type="button" class="cs" data-src="/images/cases/02.jpg?v=2" data-alt="ChatGPT 답변 원문: 서오릉 냉면 추천해줘 · 평진양 5번 중 5번 1순위"><span class="cs-q">“서오릉 냉면 추천해줘”</span><span class="cs-r"><span class="cs-b">1순위</span><b>평진양</b></span><span class="cs-n">5번 중 5번 1순위</span><span class="cs-o">원문 보기 ›</span></button>
-<button type="button" class="cs" data-src="/images/cases/03.jpg?v=2" data-alt="ChatGPT 답변 원문: 종각역 친구와 가볍게 먹기 좋은 분식집 추천해줘 · 선비꼬마김밥 종각직영점 5번 중 5번 1순위"><span class="cs-q">“종각역 친구와 가볍게 먹기 좋은 분식집 추천해줘”</span><span class="cs-r"><span class="cs-b">1순위</span><b>선비꼬마김밥 종각직영점</b></span><span class="cs-n">5번 중 5번 1순위</span><span class="cs-o">원문 보기 ›</span></button>
-<button type="button" class="cs" data-src="/images/cases/04.jpg?v=2" data-alt="ChatGPT 답변 원문: 수원 시청역 근처 닭볶음탕 추천해줘 · 도시농원 수원인계본점 10번 중 10번 1순위"><span class="cs-q">“수원 시청역 근처 닭볶음탕 추천해줘”</span><span class="cs-r"><span class="cs-b">1순위</span><b>도시농원 수원인계본점</b></span><span class="cs-n">10번 중 10번 1순위</span><span class="cs-o">원문 보기 ›</span></button>
-<button type="button" class="cs" data-src="/images/cases/05.jpg?v=2" data-alt="ChatGPT 답변 원문: 명동성당 근처 예약 가능한 한식당 어디인가요 · 광장동가온 명동성당점 10번 중 10번 1순위"><span class="cs-q">“명동성당 근처 예약 가능한 한식당 어디인가요”</span><span class="cs-r"><span class="cs-b">1순위</span><b>광장동가온 명동성당점</b></span><span class="cs-n">10번 중 10번 1순위</span><span class="cs-o">원문 보기 ›</span></button>
-<button type="button" class="cs" data-src="/images/cases/06.jpg?v=2" data-alt="ChatGPT 답변 원문: 탄현역 근처 간편하게 식사할 수 있는 분식집 추천해주세요 · 오공김밥 일산탄현점 10번 중 10번 1순위"><span class="cs-q">“탄현역 근처 간편하게 식사할 수 있는 분식집 추천해주세요”</span><span class="cs-r"><span class="cs-b">1순위</span><b>오공김밥 일산탄현점</b></span><span class="cs-n">10번 중 10번 1순위</span><span class="cs-o">원문 보기 ›</span></button>
-<button type="button" class="cs" data-src="/images/cases/07.jpg?v=2" data-alt="ChatGPT 답변 원문: 광장동에서 비즈니스 접대하기 좋은 한식집 알려주세요 · 광장동가온 10번 중 9번 1순위"><span class="cs-q">“광장동에서 비즈니스 접대하기 좋은 한식집 알려주세요”</span><span class="cs-r"><span class="cs-b">1순위</span><b>광장동가온</b></span><span class="cs-n">10번 중 9번 1순위</span><span class="cs-o">원문 보기 ›</span></button>
-<button type="button" class="cs" data-src="/images/cases/08.jpg?v=2" data-alt="ChatGPT 답변 원문: 광장동 뷰 좋은 한식집 추천해주세요 · 광장동가온 10번 중 9번 1순위"><span class="cs-q">“광장동 뷰 좋은 한식집 추천해주세요”</span><span class="cs-r"><span class="cs-b">1순위</span><b>광장동가온</b></span><span class="cs-n">10번 중 9번 1순위</span><span class="cs-o">원문 보기 ›</span></button>
-<button type="button" class="cs" data-src="/images/cases/09.jpg?v=2" data-alt="ChatGPT 답변 원문: 수원 주말에 드라이브 가기 좋은 카페 추천해주세요 · 도나스데이 본점 10번 중 8번 1순위"><span class="cs-q">“수원 주말에 드라이브 가기 좋은 카페 추천해주세요”</span><span class="cs-r"><span class="cs-b">1순위</span><b>도나스데이 본점</b></span><span class="cs-n">10번 중 8번 1순위</span><span class="cs-o">원문 보기 ›</span></button>
-<button type="button" class="cs" data-src="/images/cases/10.jpg?v=2" data-alt="ChatGPT 답변 원문: 창원가로수길 근처 맛집 추천해줘 · 오프트 포르니 5번 중 4번 1순위"><span class="cs-q">“창원가로수길 근처 맛집 추천해줘”</span><span class="cs-r"><span class="cs-b">1순위</span><b>오프트 포르니</b></span><span class="cs-n">5번 중 4번 1순위</span><span class="cs-o">원문 보기 ›</span></button>
-<button type="button" class="cs" data-src="/images/cases/11.jpg?v=2" data-alt="ChatGPT 답변 원문: 종각역 혼밥하기 좋은 분식집 추천해줘 · 선비꼬마김밥 종각직영점 5번 중 4번 1순위"><span class="cs-q">“종각역 혼밥하기 좋은 분식집 추천해줘”</span><span class="cs-r"><span class="cs-b">1순위</span><b>선비꼬마김밥 종각직영점</b></span><span class="cs-n">5번 중 4번 1순위</span><span class="cs-o">원문 보기 ›</span></button>
-<button type="button" class="cs" data-src="/images/cases/12.jpg?v=2" data-alt="ChatGPT 답변 원문: 용인 모현에서 가족과 식사하기 좋은 감자탕 맛집 추천해줘 · 인생뼈다귀 본점 10번 중 8번 1순위"><span class="cs-q">“용인 모현에서 가족과 식사하기 좋은 감자탕 맛집 추천해줘”</span><span class="cs-r"><span class="cs-b">1순위</span><b>인생뼈다귀 본점</b></span><span class="cs-n">10번 중 8번 1순위</span><span class="cs-o">원문 보기 ›</span></button>
-<button type="button" class="cs" data-src="/images/cases/13.jpg?v=2" data-alt="ChatGPT 답변 원문: 용인 모현에서 놀이방 있는 감자탕 맛집 추천해줘 · 인생뼈다귀 본점 5번 중 4번 1순위"><span class="cs-q">“용인 모현에서 놀이방 있는 감자탕 맛집 추천해줘”</span><span class="cs-r"><span class="cs-b">1순위</span><b>인생뼈다귀 본점</b></span><span class="cs-n">5번 중 4번 1순위</span><span class="cs-o">원문 보기 ›</span></button>
-<button type="button" class="cs" data-src="/images/cases/14.jpg?v=2" data-alt="ChatGPT 답변 원문: 명동성당 근처 단체석 있는 한식당 알려주세요 · 광장동가온 명동성당점 10번 중 8번 1순위"><span class="cs-q">“명동성당 근처 단체석 있는 한식당 알려주세요”</span><span class="cs-r"><span class="cs-b">1순위</span><b>광장동가온 명동성당점</b></span><span class="cs-n">10번 중 8번 1순위</span><span class="cs-o">원문 보기 ›</span></button>
-<button type="button" class="cs" data-src="/images/cases/15.jpg?v=2" data-alt="ChatGPT 답변 원문: 처인구 역북동 도넛 맛집 추천해줘 · 도나스데이 용인역북점 5번 중 4번 1순위"><span class="cs-q">“처인구 역북동 도넛 맛집 추천해줘”</span><span class="cs-r"><span class="cs-b">1순위</span><b>도나스데이 용인역북점</b></span><span class="cs-n">5번 중 4번 1순위</span><span class="cs-o">원문 보기 ›</span></button>
-<button type="button" class="cs" data-src="/images/cases/16.jpg?v=2" data-alt="ChatGPT 답변 원문: 일산 탄현동 배달 주문하기 좋은 분식 추천해주세요 · 오공김밥 일산탄현점 10번 중 8번 1순위"><span class="cs-q">“일산 탄현동 배달 주문하기 좋은 분식 추천해주세요”</span><span class="cs-r"><span class="cs-b">1순위</span><b>오공김밥 일산탄현점</b></span><span class="cs-n">10번 중 8번 1순위</span><span class="cs-o">원문 보기 ›</span></button>
-<button type="button" class="cs" data-src="/images/cases/17.jpg?v=2" data-alt="ChatGPT 답변 원문: 수원 도넛맛집 추천해줘 · 도나스데이 본점 10번 중 7번 1순위"><span class="cs-q">“수원 도넛맛집 추천해줘”</span><span class="cs-r"><span class="cs-b">1순위</span><b>도나스데이 본점</b></span><span class="cs-n">10번 중 7번 1순위</span><span class="cs-o">원문 보기 ›</span></button>
-<button type="button" class="cs" data-src="/images/cases/18.jpg?v=2" data-alt="ChatGPT 답변 원문: 고양시 한식 냉면 추천해줘 · 평진양 5번 중 3번 1순위"><span class="cs-q">“고양시 한식 냉면 추천해줘”</span><span class="cs-r"><span class="cs-b">1순위</span><b>평진양</b></span><span class="cs-n">5번 중 3번 1순위</span><span class="cs-o">원문 보기 ›</span></button>
+<button type="button" class="cs" data-src="/images/cases/01.jpg?v=3" data-alt="ChatGPT 답변 원문: 수원 닭볶음탕 추천해줘 · 도시농원 수원인계본점 1순위"><span class="cs-q">“수원 닭볶음탕 추천해줘”</span><span class="cs-r"><span class="cs-b">1순위</span><b>도시농원 수원인계본점</b></span><span class="cs-o">원문 보기 ›</span></button>
+<button type="button" class="cs" data-src="/images/cases/02.jpg?v=3" data-alt="ChatGPT 답변 원문: 서오릉 냉면 추천해줘 · 평진양 1순위"><span class="cs-q">“서오릉 냉면 추천해줘”</span><span class="cs-r"><span class="cs-b">1순위</span><b>평진양</b></span><span class="cs-o">원문 보기 ›</span></button>
+<button type="button" class="cs" data-src="/images/cases/03.jpg?v=3" data-alt="ChatGPT 답변 원문: 종각역 친구와 가볍게 먹기 좋은 분식집 추천해줘 · 선비꼬마김밥 종각직영점 1순위"><span class="cs-q">“종각역 친구와 가볍게 먹기 좋은 분식집 추천해줘”</span><span class="cs-r"><span class="cs-b">1순위</span><b>선비꼬마김밥 종각직영점</b></span><span class="cs-o">원문 보기 ›</span></button>
+<button type="button" class="cs" data-src="/images/cases/04.jpg?v=3" data-alt="ChatGPT 답변 원문: 수원 시청역 근처 닭볶음탕 추천해줘 · 도시농원 수원인계본점 1순위"><span class="cs-q">“수원 시청역 근처 닭볶음탕 추천해줘”</span><span class="cs-r"><span class="cs-b">1순위</span><b>도시농원 수원인계본점</b></span><span class="cs-o">원문 보기 ›</span></button>
+<button type="button" class="cs" data-src="/images/cases/05.jpg?v=3" data-alt="ChatGPT 답변 원문: 명동성당 근처 예약 가능한 한식당 어디인가요 · 광장동가온 명동성당점 1순위"><span class="cs-q">“명동성당 근처 예약 가능한 한식당 어디인가요”</span><span class="cs-r"><span class="cs-b">1순위</span><b>광장동가온 명동성당점</b></span><span class="cs-o">원문 보기 ›</span></button>
+<button type="button" class="cs" data-src="/images/cases/06.jpg?v=3" data-alt="ChatGPT 답변 원문: 탄현역 근처 간편하게 식사할 수 있는 분식집 추천해주세요 · 오공김밥 일산탄현점 1순위"><span class="cs-q">“탄현역 근처 간편하게 식사할 수 있는 분식집 추천해주세요”</span><span class="cs-r"><span class="cs-b">1순위</span><b>오공김밥 일산탄현점</b></span><span class="cs-o">원문 보기 ›</span></button>
+<button type="button" class="cs" data-src="/images/cases/07.jpg?v=3" data-alt="ChatGPT 답변 원문: 광장동에서 비즈니스 접대하기 좋은 한식집 알려주세요 · 광장동가온 1순위"><span class="cs-q">“광장동에서 비즈니스 접대하기 좋은 한식집 알려주세요”</span><span class="cs-r"><span class="cs-b">1순위</span><b>광장동가온</b></span><span class="cs-o">원문 보기 ›</span></button>
+<button type="button" class="cs" data-src="/images/cases/08.jpg?v=3" data-alt="ChatGPT 답변 원문: 광장동 뷰 좋은 한식집 추천해주세요 · 광장동가온 1순위"><span class="cs-q">“광장동 뷰 좋은 한식집 추천해주세요”</span><span class="cs-r"><span class="cs-b">1순위</span><b>광장동가온</b></span><span class="cs-o">원문 보기 ›</span></button>
+<button type="button" class="cs" data-src="/images/cases/09.jpg?v=3" data-alt="ChatGPT 답변 원문: 수원 주말에 드라이브 가기 좋은 카페 추천해주세요 · 도나스데이 본점 1순위"><span class="cs-q">“수원 주말에 드라이브 가기 좋은 카페 추천해주세요”</span><span class="cs-r"><span class="cs-b">1순위</span><b>도나스데이 본점</b></span><span class="cs-o">원문 보기 ›</span></button>
+<button type="button" class="cs" data-src="/images/cases/10.jpg?v=3" data-alt="ChatGPT 답변 원문: 창원가로수길 근처 맛집 추천해줘 · 오프트 포르니 1순위"><span class="cs-q">“창원가로수길 근처 맛집 추천해줘”</span><span class="cs-r"><span class="cs-b">1순위</span><b>오프트 포르니</b></span><span class="cs-o">원문 보기 ›</span></button>
+<button type="button" class="cs" data-src="/images/cases/11.jpg?v=3" data-alt="ChatGPT 답변 원문: 종각역 혼밥하기 좋은 분식집 추천해줘 · 선비꼬마김밥 종각직영점 1순위"><span class="cs-q">“종각역 혼밥하기 좋은 분식집 추천해줘”</span><span class="cs-r"><span class="cs-b">1순위</span><b>선비꼬마김밥 종각직영점</b></span><span class="cs-o">원문 보기 ›</span></button>
+<button type="button" class="cs" data-src="/images/cases/12.jpg?v=3" data-alt="ChatGPT 답변 원문: 용인 모현에서 가족과 식사하기 좋은 감자탕 맛집 추천해줘 · 인생뼈다귀 본점 1순위"><span class="cs-q">“용인 모현에서 가족과 식사하기 좋은 감자탕 맛집 추천해줘”</span><span class="cs-r"><span class="cs-b">1순위</span><b>인생뼈다귀 본점</b></span><span class="cs-o">원문 보기 ›</span></button>
+<button type="button" class="cs" data-src="/images/cases/13.jpg?v=3" data-alt="ChatGPT 답변 원문: 용인 모현에서 놀이방 있는 감자탕 맛집 추천해줘 · 인생뼈다귀 본점 1순위"><span class="cs-q">“용인 모현에서 놀이방 있는 감자탕 맛집 추천해줘”</span><span class="cs-r"><span class="cs-b">1순위</span><b>인생뼈다귀 본점</b></span><span class="cs-o">원문 보기 ›</span></button>
+<button type="button" class="cs" data-src="/images/cases/14.jpg?v=3" data-alt="ChatGPT 답변 원문: 명동성당 근처 단체석 있는 한식당 알려주세요 · 광장동가온 명동성당점 1순위"><span class="cs-q">“명동성당 근처 단체석 있는 한식당 알려주세요”</span><span class="cs-r"><span class="cs-b">1순위</span><b>광장동가온 명동성당점</b></span><span class="cs-o">원문 보기 ›</span></button>
+<button type="button" class="cs" data-src="/images/cases/15.jpg?v=3" data-alt="ChatGPT 답변 원문: 처인구 역북동 도넛 맛집 추천해줘 · 도나스데이 용인역북점 1순위"><span class="cs-q">“처인구 역북동 도넛 맛집 추천해줘”</span><span class="cs-r"><span class="cs-b">1순위</span><b>도나스데이 용인역북점</b></span><span class="cs-o">원문 보기 ›</span></button>
+<button type="button" class="cs" data-src="/images/cases/16.jpg?v=3" data-alt="ChatGPT 답변 원문: 일산 탄현동 배달 주문하기 좋은 분식 추천해주세요 · 오공김밥 일산탄현점 1순위"><span class="cs-q">“일산 탄현동 배달 주문하기 좋은 분식 추천해주세요”</span><span class="cs-r"><span class="cs-b">1순위</span><b>오공김밥 일산탄현점</b></span><span class="cs-o">원문 보기 ›</span></button>
 </div>
 </div>
 <div class="cs-nav"><button type="button" class="cs-arr" id="csPrev" aria-label="이전 사례">‹</button><div class="cs-dots" id="csDots" role="tablist" aria-label="사례 고르기"></div><button type="button" class="cs-arr" id="csNext" aria-label="다음 사례">›</button></div>
@@ -581,11 +579,11 @@ fbq('track', 'PageView');
 <details class="faq" open><summary>토크비는 정확히 뭘 해 주나요?</summary><p>요즘 손님들은 ‘근처 맛집 추천해줘’를 ChatGPT 같은 AI에도 물어봐요. 토크비는 손님이 물을 만한 질문을 매주 ChatGPT에 직접 물어 우리 가게가 추천되는지 세고, 메뉴·가격·주차 같은 가게 정보를 AI가 찾기 쉽게 정리해 추천이 늘도록 도와요.</p></details>
 <details class="faq"><summary>GEO가 뭔가요?</summary><p>GEO(생성형 엔진 최적화)는 ChatGPT 같은 AI의 답변에 우리 가게가 나오게 하는 일이에요. 네이버 상위 노출의 AI 버전이라고 보시면 돼요.</p></details>
 <details class="faq"><summary>제가 직접 ChatGPT에 검색하면 나오는데요?</summary><p>ChatGPT는 대화 이력을 기억해서 사장님 화면에서는 잘 나올 수 있어요. 토크비는 기록이 없는 새 대화에서 매장 이름을 빼고 손님처럼 물어 확인해요.</p></details>
-<details class="faq"><summary>네이버 AI 브리핑이나 제미나이도 보나요?</summary><p>정리한 가게 정보는 Gemini, Claude, Perplexity 같은 다른 AI에도 함께 학습돼요. 측정과 리포트는 손님이 가장 많이 쓰는 ChatGPT를 기준으로 해요.</p></details>
+<details class="faq"><summary>네이버 AI 브리핑이나 제미나이도 보나요?</summary><p>정리한 가게 정보는 Gemini, Claude, Perplexity 같은 다른 AI에도 함께 학습돼요. 다만 AI마다 반영 속도가 달라서 ChatGPT보다 늦게 나타날 수 있어요. 측정과 리포트는 손님이 가장 많이 쓰는 ChatGPT를 기준으로 해요.</p></details>
 <details class="faq"><summary>얼마나 지나야 달라지나요?</summary><p>빠른 가게는 1~2주 안에 변화가 보이기 시작하고, 추천이 자리 잡기까지는 보통 1~3개월이 걸려요. 상권과 업종에 따라 속도는 달라요.</p></details>
 <details class="faq"><summary>네이버 플레이스 상위인데도 필요한가요?</summary><p>플레이스 순위와 ChatGPT 추천은 따로 움직여요. 네이버 지도 1위인데 ChatGPT에는 한 번도 나오지 않은 매장도 있었어요.</p></details>
 <details class="faq"><summary>상담은 어떻게 하나요?</summary><p>카카오톡 채널 ‘토크비’로 네이버 플레이스 링크를 보내 주시면 돼요. 영업일 09:00~18:00에 전문가가 직접 상담해 드려요. <a href="https://pf.kakao.com/_JxlWTX/chat" target="_blank" rel="noopener" data-pos="faq">카톡으로 상담하기</a></p></details>
-<details class="faq"><summary>추천 횟수는 어떻게 확인하나요?</summary><p>로그인하지 않은 새 대화에서 매장 이름 없이 손님처럼 묻고, 같은 질문을 10번 반복해 우리 가게가 나온 횟수를 셉니다. ChatGPT 답변은 물을 때마다 달라서 한 번이 아니라 여러 번 묻습니다.</p></details>
+<details class="faq"><summary>추천 횟수는 어떻게 확인하나요?</summary><p>로그인하지 않은 새 대화에서 매장 이름 없이 손님처럼 물어요. ChatGPT 답변은 물을 때마다 달라서 같은 질문을 매주 5번씩 묻고, 최근 7일 동안 물은 횟수 중 우리 가게가 나온 횟수를 세요.</p></details>
 <details class="faq"><summary>블로그 체험단이나 네이버 광고랑 뭐가 다른가요?</summary><p>체험단과 네이버 광고는 네이버에서 검색하는 손님에게 보여요. 토크비는 ChatGPT 같은 AI에 물어보는 손님에게 우리 가게가 답으로 나오게 해요. 둘은 따로 움직여서, 네이버 상위인 가게가 AI 답변에는 안 나오는 경우가 많아요.</p></details>
 <details class="faq"><summary>해지와 환불은 어떻게 하나요?</summary><p>약정 없이 언제든 해지할 수 있고, 결제한 기간이 끝날 때까지 그대로 이용하실 수 있어요. 결제 확인 후 영업일 3일 이내에는 사유와 상관없이 전액 환불해 드려요. 그 이후에는 서비스가 이미 시작되어 환불이 불가해요.</p></details>
 </div>

diff --git a/gpt-plan.template.html b/gpt-plan.template.html
@@ -259,7 +259,7 @@
    "name": "어떤 AI를 기준으로 재나요?",
    "acceptedAnswer": {
     "@type": "Answer",
-    "text": "측정과 리포트는 손님이 가장 많이 쓰는 ChatGPT를 기준으로 해요. 정리한 가게 정보는 Gemini, Claude, Perplexity 같은 다른 AI에도 함께 학습돼요."
+    "text": "측정과 리포트는 손님이 가장 많이 쓰는 ChatGPT를 기준으로 해요. 정리한 가게 정보는 Gemini, Claude, Perplexity 같은 다른 AI에도 함께 학습돼요. 다만 AI마다 반영 속도가 달라서 ChatGPT보다 늦게 나타날 수 있어요."
    }
   },
   {
@@ -438,7 +438,7 @@ fbq('track', 'PageView');
 <details class="faq"><summary>언제부터 달라지나요?</summary><p>빠른 가게는 1~2주 안에 변화가 보이기 시작하고, 추천이 자리 잡기까지는 보통 1~3개월이 걸려요. 상권과 업종에 따라 속도는 달라요.</p></details>
 <details class="faq"><summary>제가 따로 할 일이 있나요?</summary><p>카톡으로 결과를 확인하시고, 매주 30초짜리 질문 하나에 답해 주시면 돼요. 메뉴나 가격, 주차처럼 가게 정보가 바뀌면 알려 주세요.</p></details>
 <details class="faq"><summary>결제가 실패하면 어떻게 되나요?</summary><p>카드 자동 결제가 실패하면 카톡으로 알려 드리고 다시 시도해요. 3번 실패하면 서비스가 잠시 멈추고, 결제가 되면 다시 이어져요.</p></details>
-<details class="faq"><summary>어떤 AI를 기준으로 재나요?</summary><p>측정과 리포트는 손님이 가장 많이 쓰는 ChatGPT를 기준으로 해요. 정리한 가게 정보는 Gemini, Claude, Perplexity 같은 다른 AI에도 함께 학습돼요.</p></details>
+<details class="faq"><summary>어떤 AI를 기준으로 재나요?</summary><p>측정과 리포트는 손님이 가장 많이 쓰는 ChatGPT를 기준으로 해요. 정리한 가게 정보는 Gemini, Claude, Perplexity 같은 다른 AI에도 함께 학습돼요. 다만 AI마다 반영 속도가 달라서 ChatGPT보다 늦게 나타날 수 있어요.</p></details>
 <details class="faq"><summary>여러 지점이나 프랜차이즈 본사도 되나요?</summary><p>가격은 매장당이에요. 프랜차이즈 본사나 매장 10개 이상은 카톡으로 따로 문의해 주세요.</p></details>
 </div>
 <p style="margin-top: 24px"><a class="back" href="/">실제 사례 보러 홈으로</a></p>

diff --git a/gpt-plan/index.html b/gpt-plan/index.html
@@ -259,7 +259,7 @@
    "name": "어떤 AI를 기준으로 재나요?",
    "acceptedAnswer": {
     "@type": "Answer",
-    "text": "측정과 리포트는 손님이 가장 많이 쓰는 ChatGPT를 기준으로 해요. 정리한 가게 정보는 Gemini, Claude, Perplexity 같은 다른 AI에도 함께 학습돼요."
+    "text": "측정과 리포트는 손님이 가장 많이 쓰는 ChatGPT를 기준으로 해요. 정리한 가게 정보는 Gemini, Claude, Perplexity 같은 다른 AI에도 함께 학습돼요. 다만 AI마다 반영 속도가 달라서 ChatGPT보다 늦게 나타날 수 있어요."
    }
   },
   {
@@ -610,7 +610,7 @@ fbq('track', 'PageView');
 <details class="faq"><summary>언제부터 달라지나요?</summary><p>빠른 가게는 1~2주 안에 변화가 보이기 시작하고, 추천이 자리 잡기까지는 보통 1~3개월이 걸려요. 상권과 업종에 따라 속도는 달라요.</p></details>
 <details class="faq"><summary>제가 따로 할 일이 있나요?</summary><p>카톡으로 결과를 확인하시고, 매주 30초짜리 질문 하나에 답해 주시면 돼요. 메뉴나 가격, 주차처럼 가게 정보가 바뀌면 알려 주세요.</p></details>
 <details class="faq"><summary>결제가 실패하면 어떻게 되나요?</summary><p>카드 자동 결제가 실패하면 카톡으로 알려 드리고 다시 시도해요. 3번 실패하면 서비스가 잠시 멈추고, 결제가 되면 다시 이어져요.</p></details>
-<details class="faq"><summary>어떤 AI를 기준으로 재나요?</summary><p>측정과 리포트는 손님이 가장 많이 쓰는 ChatGPT를 기준으로 해요. 정리한 가게 정보는 Gemini, Claude, Perplexity 같은 다른 AI에도 함께 학습돼요.</p></details>
+<details class="faq"><summary>어떤 AI를 기준으로 재나요?</summary><p>측정과 리포트는 손님이 가장 많이 쓰는 ChatGPT를 기준으로 해요. 정리한 가게 정보는 Gemini, Claude, Perplexity 같은 다른 AI에도 함께 학습돼요. 다만 AI마다 반영 속도가 달라서 ChatGPT보다 늦게 나타날 수 있어요.</p></details>
 <details class="faq"><summary>여러 지점이나 프랜차이즈 본사도 되나요?</summary><p>가격은 매장당이에요. 프랜차이즈 본사나 매장 10개 이상은 카톡으로 따로 문의해 주세요.</p></details>
 </div>
 <p style="margin-top: 24px"><a class="back" href="/">실제 사례 보러 홈으로</a></p>
